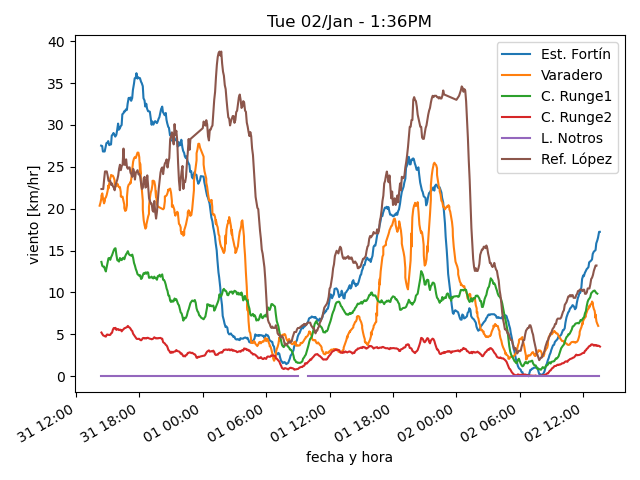
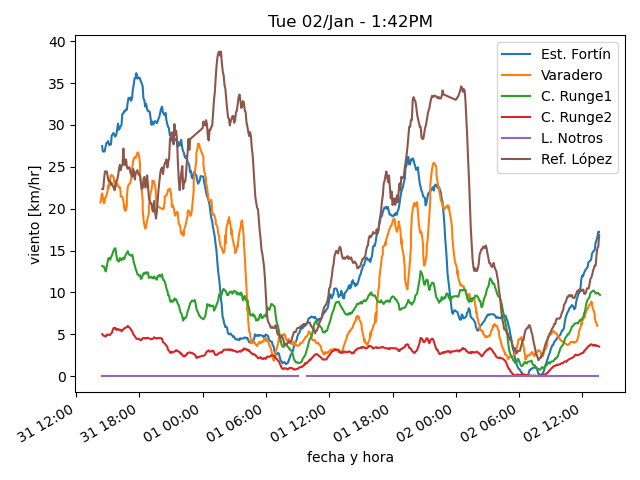
actualiza datos

diff --git a/estaciones/estacion3.html b/estaciones/estacion3.html
@@ -18,32 +18,32 @@
     </tr>
     <tr>
      <td class="stats_data">
-      1:19PM
+      1:39PM
      </td>
     </tr>
     <tr>
      <td class="stats_data">
-      21.6
+      22.3
      </td>
     </tr>
     <tr>
      <td class="stats_data">
-      7.6
+      7.0
      </td>
     </tr>
     <tr>
      <td class="stats_data">
-      40.5
+      37.2
      </td>
     </tr>
     <tr>
      <td class="stats_data">
-      1008.74
+      1008.53
      </td>
     </tr>
     <tr>
      <td class="stats_data">
-      6.5/10.0 NW
+      6.9/9.0 NW
      </td>
     </tr>
     <tr>
@@ -53,12 +53,12 @@
     </tr>
     <tr>
      <td class="stats_data">
-      10.0
+      9.0
      </td>
     </tr>
     <tr>
      <td class="stats_data">
-      878.4
+      875.8
      </td>
     </tr>
    </tbody>

diff --git a/estaciones/estacion6.html b/estaciones/estacion6.html
@@ -18,32 +18,32 @@
     </tr>
     <tr>
      <td class="stats_data">
-      1:15PM
+      1:35PM
      </td>
     </tr>
     <tr>
      <td class="stats_data">
-      17.8
+      18.1
      </td>
     </tr>
     <tr>
      <td class="stats_data">
-      2.1
+      -1.7
      </td>
     </tr>
     <tr>
      <td class="stats_data">
-      35.0
+      26.0
      </td>
     </tr>
     <tr>
      <td class="stats_data">
-      1014.22
+      1014.16
      </td>
     </tr>
     <tr>
      <td class="stats_data">
-      8.0/14.5 NE
+      16.1/29.0 N
      </td>
     </tr>
     <tr>
